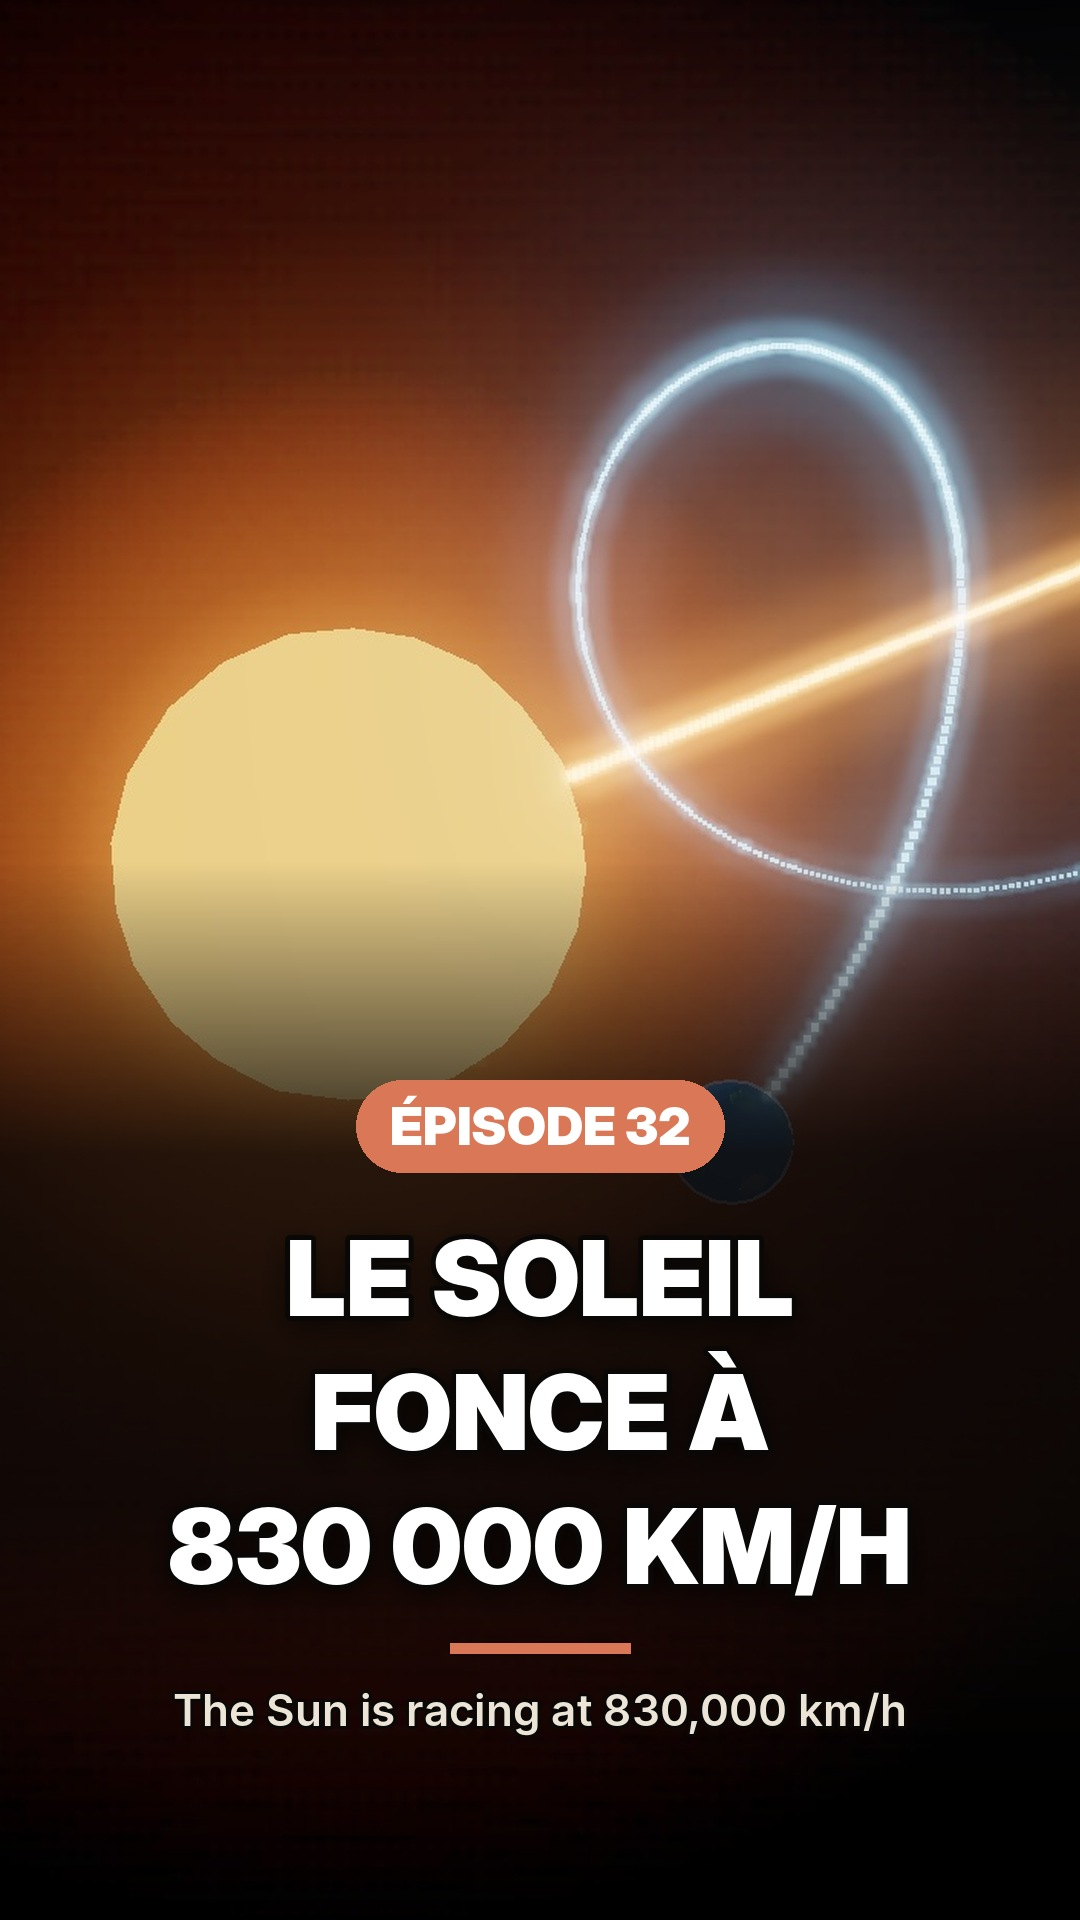
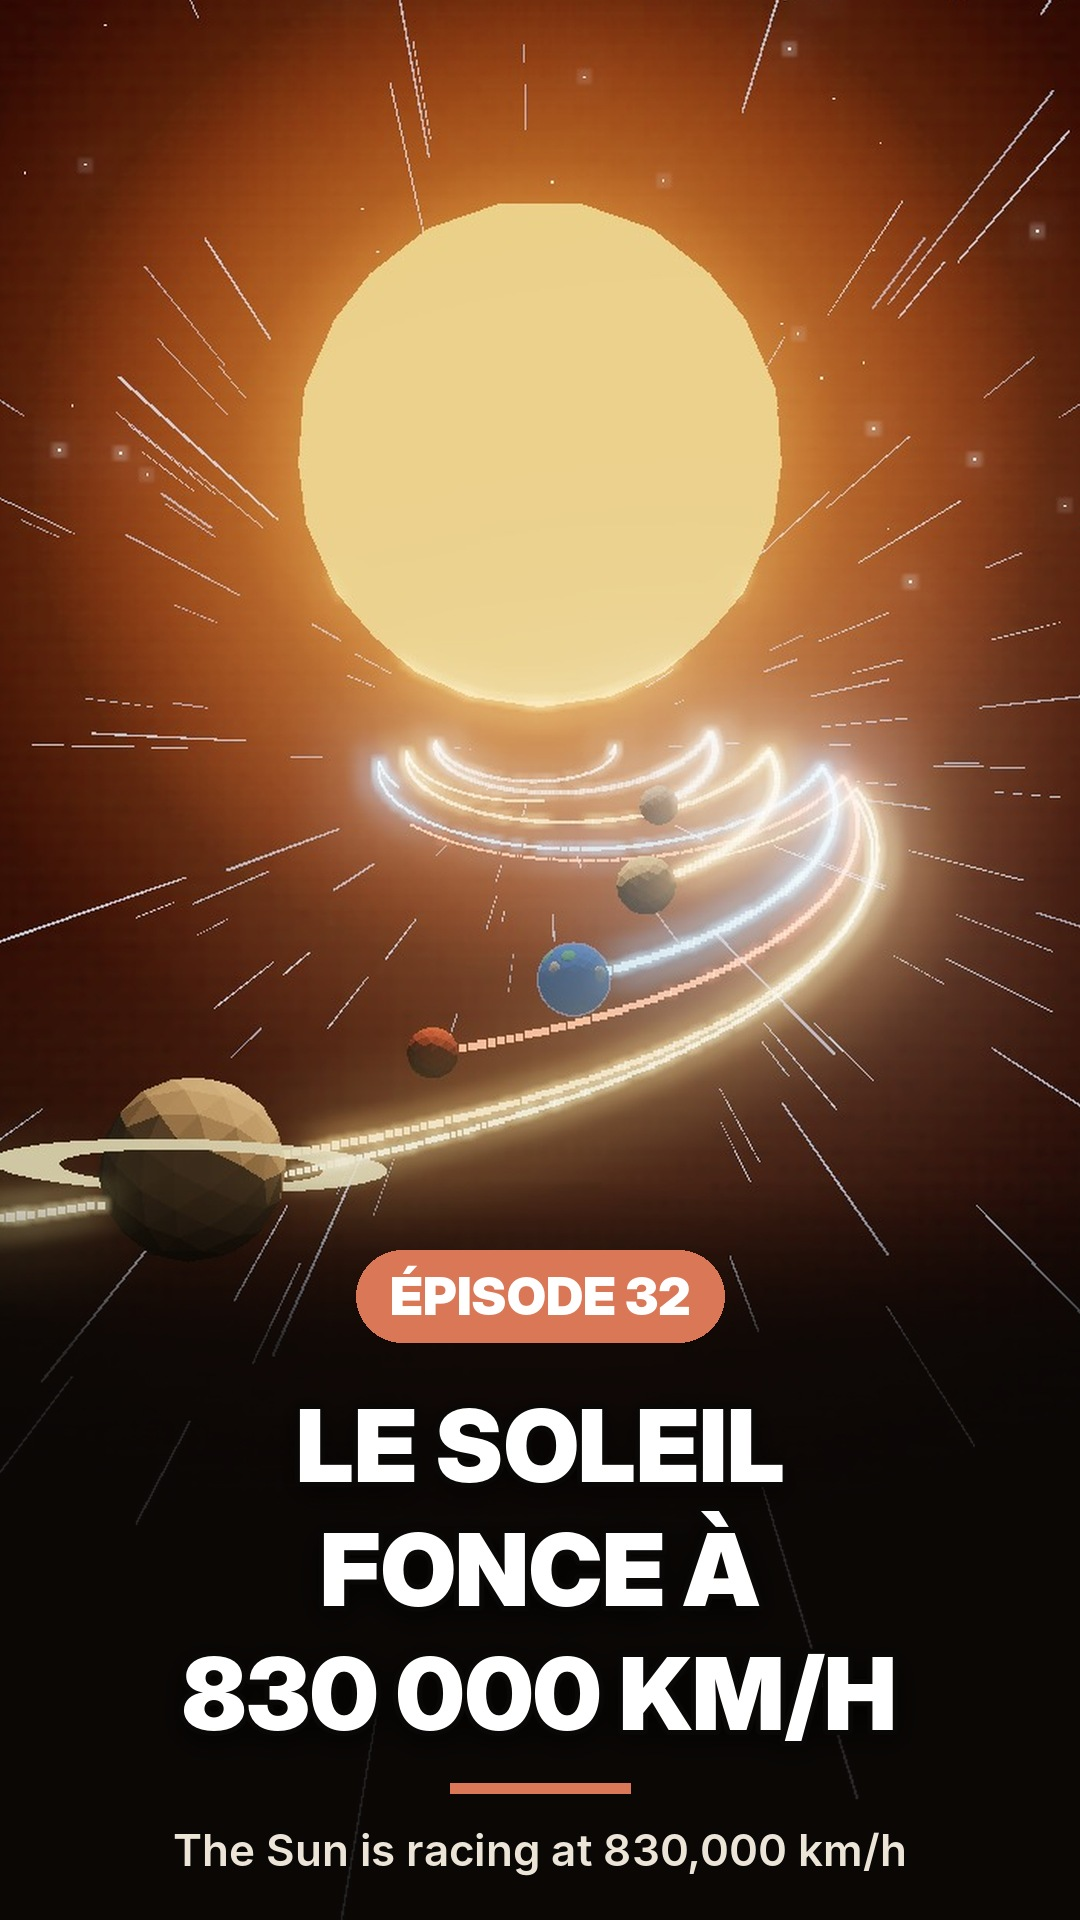
Épisode 32 : nouvelle couverture (le Soleil fonce vers nous, les planètes le suivent)
Claude-Session: https://claude.ai/code/session_01MdC9EMAfjttt8kZ4HV5TxG

diff --git a/ep32/web/body.js b/ep32/web/body.js
@@ -369,7 +369,26 @@ SETS.cover = () => {
     cam.position.set(5.5, 2.8, 6.5); cam.fov = 50; cam.updateProjectionMatrix(); cam.lookAt(0, -0.9, -1.5); } };
 };
 
+// ---------- couverture 2 : le Soleil fonce vers nous, les planetes le suivent
+SETS.cover2 = () => {
+  const B = spaceBase({ hemiK: 0.3, sun: [0xfff4e0, 0.2, [3, 4, 5]], bloom: [0.7, 0.5, 0.7] }); const { scene, cam } = B;
+  const sun = makeSun(1.0); sun.position.set(0, 1.2, 0); scene.add(sun); sun.userData.update(1);
+  // trainees de vitesse (etoiles etirees vers nous)
+  for (let i = 0; i < 160; i++) { const a = hash(i * 3.3) * Math.PI * 2, r = 1.8 + hash(i * 5.1) * 9, len = 2 + hash(i) * 6; const m = new THREE.Mesh(new THREE.BoxGeometry(0.015, 0.015, len), new THREE.MeshBasicMaterial({ color: 0xbfd8ff, transparent: true, opacity: 0.35 + 0.4 * hash(i * 9), blending: THREE.AdditiveBlending, depthWrite: false })); m.position.set(Math.cos(a) * r, 1.2 + Math.sin(a) * r, -6 - hash(i * 7) * 25); scene.add(m); }
+  // planetes : sous le Soleil, elles le suivent en spirale (trainees vers l'arriere)
+  const P = [[0.08, 1.2, 0xb0a090, 2.4], [0.12, 1.8, 0xe8c080, 1.9], [0.14, 2.5, 0x2a62b8, 1.6], [0.1, 3.1, 0xd0603a, 1.3], [0.35, 4.2, 0xd8b080, 0.9], [0.3, 5.2, 0xe8d8a0, 0.7]];
+  P.forEach(([r, R, c, w], i) => {
+    const ph = 1.0 + i * 0.25; // toutes en bas, devant
+    const pos = (u) => { const tt = -u * 9; const a = ph + tt * w * 0.35; return [Math.cos(a) * R * 0.75, 1.2 - 0.9 - Math.abs(Math.sin(a)) * R * 0.32 - 0.15 * R, Math.sin(a) * R * 0.25 + tt * 1.6]; };
+    const pl = i === 2 ? makeEarth(r) : new THREE.Mesh(new THREE.IcosahedronGeometry(r, 2), M(c)); pl.position.set(...pos(0)); scene.add(pl);
+    if (i === 4) { const rg = new THREE.Mesh(new THREE.RingGeometry(r * 1.4, r * 2.1, 32), new THREE.MeshBasicMaterial({ color: 0xe8d8a0, side: THREE.DoubleSide, transparent: true, opacity: 0.7 })); rg.rotation.x = 1.2; pl.add(rg); }
+    const tr = makeTrail(260, [0xb0a090, 0xe8c080, 0x7dd8ff, 0xff8a6a, 0xe8c080, 0xe8d8a0][i], 0.06); tr.userData.set(u => pos(1 - u)); scene.add(tr);
+  });
+  const trS = makeTrail(200, 0xffb060, 0.12); trS.userData.set(u => [0, 1.2, -16 * (1 - u)]); scene.add(trS);
+  return { ...B, update() { cam.position.set(0.0, 0.0, 7.5); cam.fov = 58; cam.updateProjectionMatrix(); cam.lookAt(0, -1.1, -2); } };
+};
+
 const SHOTS = [
   ['intro', 0, SC.canon.start], ['canon', SC.canon.start, SC.lune.start], ['lune', SC.lune.start, SC.terre.start], ['terre', SC.terre.start, SC.eclipse.start],
-  ['eclipse', SC.eclipse.start, SC.galaxie.start], ['galaxie', SC.galaxie.start, SC.fin.start], ['fin', SC.fin.start, 1000], ['cover', 1000, 1e9],
+  ['eclipse', SC.eclipse.start, SC.galaxie.start], ['galaxie', SC.galaxie.start, SC.fin.start], ['fin', SC.fin.start, 1000], ['cover', 1000, 1999], ['cover2', 2000, 1e9],
 ];

diff --git a/ep32/make_cover32.py b/ep32/make_cover32.py
@@ -1,4 +1,4 @@
-# Couverture de l'episode 32 : le Soleil et la trainee des planetes (image du rendu 3D)
+# Couverture de l'episode 32 : le Soleil fonce vers nous, le systeme solaire le suit (image du rendu 3D)
 from PIL import Image, ImageDraw, ImageFont, ImageFilter
 import os
 HERE = os.path.dirname(os.path.abspath(__file__))
@@ -7,22 +7,22 @@ BOLD = '/usr/share/fonts/opentype/inter/InterDisplay-Black.otf'
 if not os.path.exists(BOLD): BOLD = '/usr/share/fonts/opentype/inter/InterDisplay-Bold.otf'
 MED = '/usr/share/fonts/opentype/inter/Inter-SemiBold.otf'
 ORANGE = (217, 119, 87)
-src = Image.open(os.path.join(HERE, 'cov/t1000.00.jpg')).convert('RGB')
+src = Image.open(os.path.join(HERE, 'cov2/t2000.00.jpg')).convert('RGB')
 s = 1960 / src.height; src = src.resize((int(src.width * s), 1960), Image.LANCZOS)
-cx = int(src.width * 0.45); x0 = max(0, min(src.width - 1080, cx - 540))
+cx = int(src.width * 0.5); x0 = max(0, min(src.width - 1080, cx - 540))
 im = src.crop((x0, 20, x0 + 1080, 1940))
 # bande sombre au milieu pour le titre
 grad = Image.new('L', im.size, 0); gd = ImageDraw.Draw(grad)
 for y in range(1920):
-    k = max(0.0, 1 - abs(y - 1330) / 470); gd.line([(0, y), (1080, y)], fill=int(215 * min(1, k * 1.6)))
+    k = max(0.0, min(1.0, (y - 1180) / 260)); gd.line([(0, y), (1080, y)], fill=int(215 * min(1, k * 1.6)))
 im = Image.composite(Image.new('RGB', im.size, (12, 8, 6)), im, grad)
 d = ImageDraw.Draw(im)
-f = ImageFont.truetype(BOLD, 104); lines = ['LE SOLEIL', 'FONCE À', '830 000 KM/H']
+f = ImageFont.truetype(BOLD, 100); lines = ['LE SOLEIL', 'FONCE À', '830 000 KM/H']
 fb = ImageFont.truetype(BOLD, 52); lab = 'ÉPISODE 32'; tw = d.textlength(lab, font=fb)
-y0 = 1080
+y0 = 1250
 d.rounded_rectangle([(540 - tw / 2 - 34, y0), (540 + tw / 2 + 34, y0 + 92)], radius=46, fill=ORANGE)
 d.text((540, y0 + 46), lab, font=fb, fill='white', anchor='mm')
-y = y0 + 135; lh = 134
+y = y0 + 135; lh = 124
 sh = Image.new('RGBA', im.size, (0, 0, 0, 0)); sd = ImageDraw.Draw(sh)
 for i, ln in enumerate(lines): sd.text((540, y + i * lh), ln, font=f, fill=(0, 0, 0, 230), anchor='ma')
 sh = sh.filter(ImageFilter.GaussianBlur(14)); im.paste(sh, (0, 8), sh); d = ImageDraw.Draw(im)
